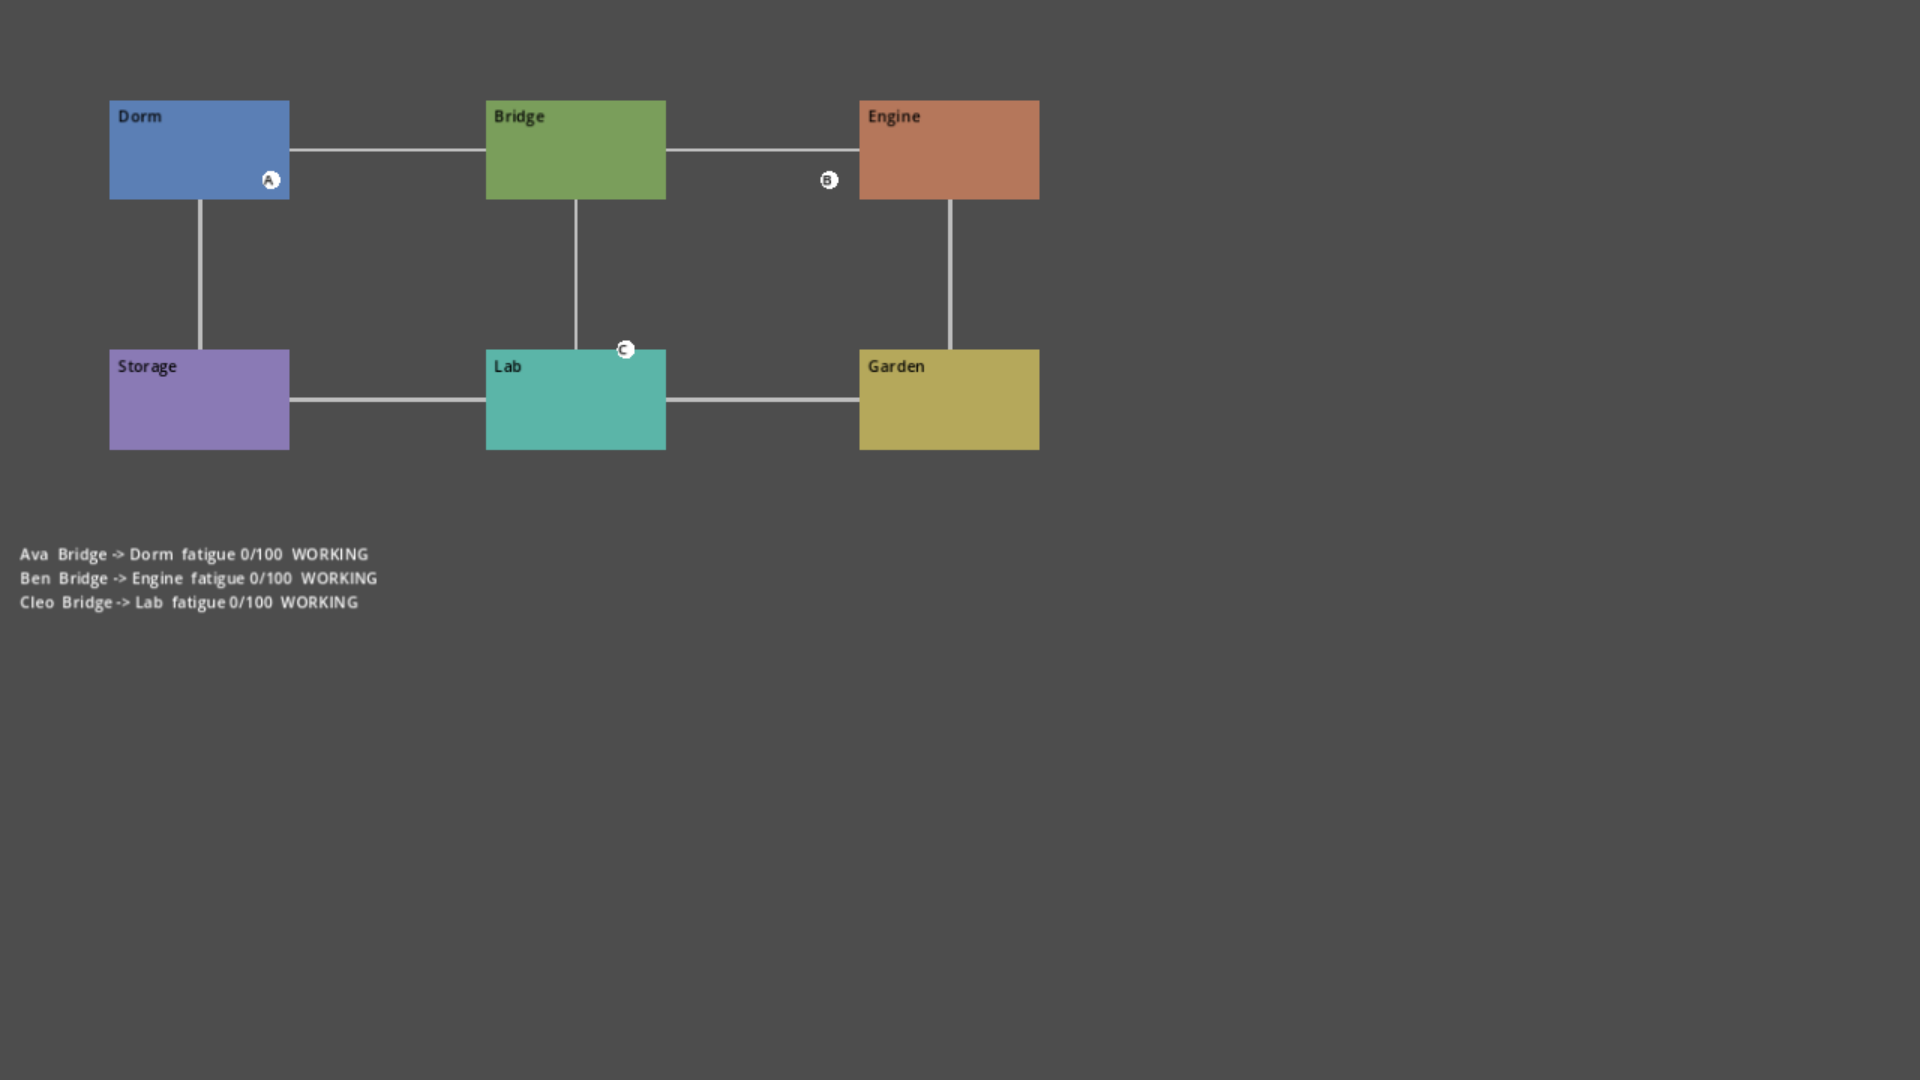
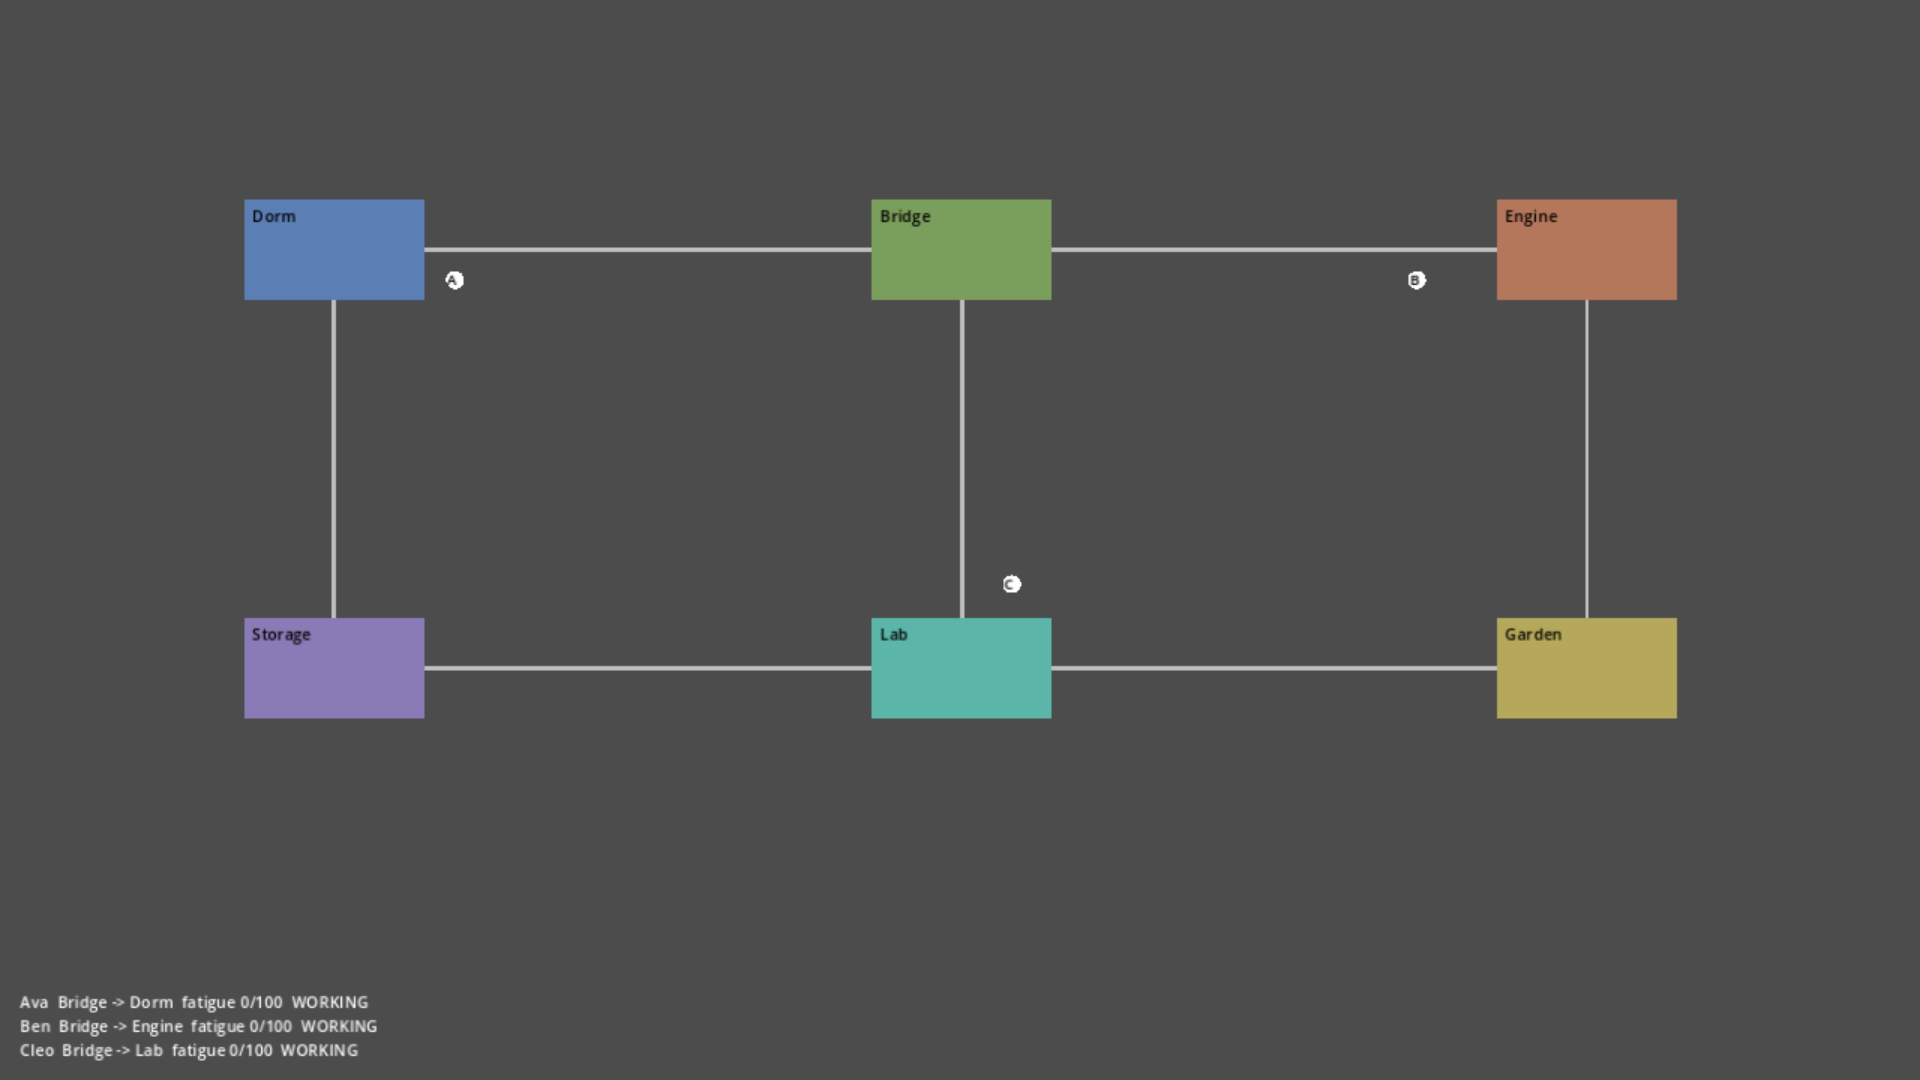
docs(req): tick story 002 criteria and refresh its evidence
* tick the 10 acceptance criteria and mark test evidence created
* recapture both screenshots and restamp after the layout fix
* address PR #20 review item 3

Claude-Session: https://claude.ai/code/session_011ZwNSVCh7MzfqUuAkao2pu

Changed region(s): [[0.0312, 0.0917, 0.875, 0.4278], [0.0, 0.4889, 0.875, 0.6722], [0.0, 0.9167, 0.1875, 0.9778]]

diff --git a/production/epics/orbit-shift/story-002-rooms-and-colonists.md b/production/epics/orbit-shift/story-002-rooms-and-colonists.md
@@ -29,16 +29,16 @@
 
 *From `design/game-brief.md`, MVP 2 與 Player goal & fail state:*
 
-- [ ] 太空站由 6 個房間組成，房間之間的連接關係從資料檔讀取，其中一間是宿舍
-- [ ] 畫面以色塊與文字顯示 6 個房間、連接線，以及每名殖民者目前所在的房間
-- [ ] 遊戲開始時有 3 名殖民者，各自有名字與疲勞值
-- [ ] 殖民者移動到相鄰房間需花固定秒數（可調參數），移動期間不能工作；到非相鄰房間依連接圖逐間移動
-- [ ] 殖民者工作時疲勞上升、在宿舍休息時下降，上升與下降速度為可調參數
-- [ ] 疲勞達上限時，殖民者放下手邊工作、自己前往宿舍休息，恢復到門檻以下才回去工作
-- [ ] `Station`、`Colonists` 掛在 `src/main.tscn` 底下，`godot --path .` 開起來看得到房間與殖民者移動、疲勞變化
-- [ ] 「累垮」＝疲勞達上限後，因為宿舍有未修好的危機（破洞或故障）而無法開始休息，持續超過 N 秒（可調參數）；正常去宿舍休息不算累垮
-- [ ] 3 名殖民者同時處於累垮狀態時發出 `Events.colonists_collapsed`（見 `EPIC.md`「整合約定」）
-- [ ] 移動邏輯集中在單一元件處理，之後可替換成沿走廊行走（A 方案佔位）而不必改殖民者其他邏輯
+- [x] 太空站由 6 個房間組成，房間之間的連接關係從資料檔讀取，其中一間是宿舍
+- [x] 畫面以色塊與文字顯示 6 個房間、連接線，以及每名殖民者目前所在的房間
+- [x] 遊戲開始時有 3 名殖民者，各自有名字與疲勞值
+- [x] 殖民者移動到相鄰房間需花固定秒數（可調參數），移動期間不能工作；到非相鄰房間依連接圖逐間移動
+- [x] 殖民者工作時疲勞上升、在宿舍休息時下降，上升與下降速度為可調參數
+- [x] 疲勞達上限時，殖民者放下手邊工作、自己前往宿舍休息，恢復到門檻以下才回去工作
+- [x] `Station`、`Colonists` 掛在 `src/main.tscn` 底下，`godot --path .` 開起來看得到房間與殖民者移動、疲勞變化
+- [x] 「累垮」＝疲勞達上限後，因為宿舍有未修好的危機（破洞或故障）而無法開始休息，持續超過 N 秒（可調參數）；正常去宿舍休息不算累垮
+- [x] 3 名殖民者同時處於累垮狀態時發出 `Events.colonists_collapsed`（見 `EPIC.md`「整合約定」）
+- [x] 移動邏輯集中在單一元件處理，之後可替換成沿走廊行走（A 方案佔位）而不必改殖民者其他邏輯
 
 ---
 
@@ -83,7 +83,7 @@
 - Logic: `tests/unit/core/colonist_test.gd` — must exist and pass
 - 太空站畫面截圖保留於 `production/qa/evidence/`
 
-**Status**: [ ] Not yet created
+**Status**: [x] Created — `tests/unit/core/colonist_test.gd`（32 tests 通過）、`production/qa/evidence/story-002-rooms-and-colonists/`（2 張截圖＋stamp）
 
 ---
 
@@ -97,7 +97,7 @@
 ## Completion Notes
 **Completed**: 2026-11-11
 **Criteria**: 10/10 passing (none deferred)
-**Deviations**: ADVISORY — `src/ui/station_view.gd` hardcodes layout numbers (room size, text position at y=560). The layout fits 1152x648 while the window is 1920x1080, so the map sits in the top-left corner. OUT OF SCOPE — `docs/img/board-example.png.import` was created by the Godot import and is unrelated; do not commit it.
-**Test Evidence**: `tests/unit/core/colonist_test.gd` (31 tests, all passing); `production/qa/evidence/story-002-rooms-and-colonists/` (station-t01s-moving.png, station-t10s-fatigue.png; stamp current)
+**Deviations**: None remaining — the layout advisory (map in the top-left corner) was fixed after PR #20 review: room `pos` in `station.json` scaled to the 1920x1080 window and colonist text stacked from the screen bottom. OUT OF SCOPE — `docs/img/board-example.png.import` was created by the Godot import and is unrelated; do not commit it.
+**Test Evidence**: `tests/unit/core/colonist_test.gd` (32 tests, all passing; empty-roster collapse guard added after PR #20 review); `production/qa/evidence/story-002-rooms-and-colonists/` (station-t01s-moving.png, station-t10s-fatigue.png; recaptured and restamped after the layout fix)
 **Reviewed by**: self, no independent review (/code-review run: APPROVED WITH SUGGESTIONS, suggestions 1–4 applied)
 **Notes for story 003**: the `TODO(003)` placeholder in `src/core/colonists.gd` (`demo_enabled` / `_tick_demo`) must be deleted, or set `demo_enabled = false`, otherwise it overwrites 003's orders every few seconds. Issue orders through `Colonists.command_go_to(index, room_id)`.
